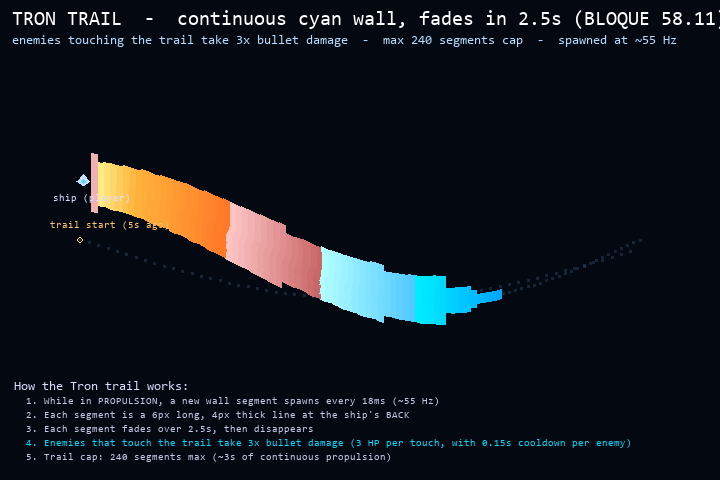
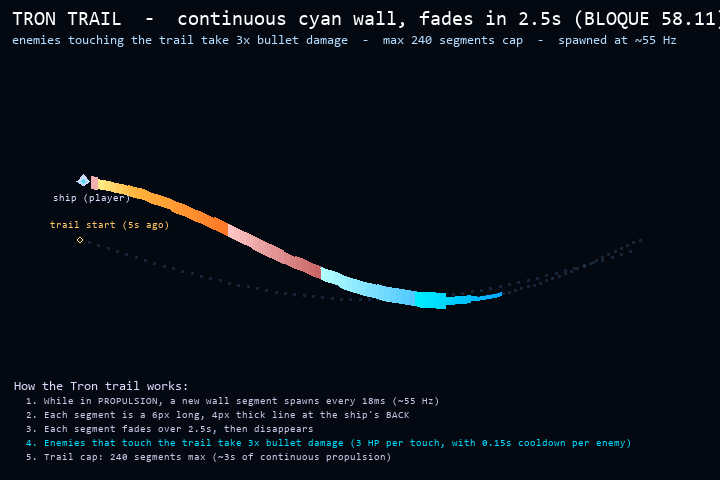
fix BLOQUE 58.29: Tron trail now thin line matching engine fire thickness

Changed region(s): [[0.1222, 0.3125, 0.7028, 0.6875]]

diff --git a/src/systems/tron_trail.py b/src/systems/tron_trail.py
@@ -1,17 +1,24 @@
-"""BLOQUE 58.11 + 58.22 + 58.24 + 58.25 + 58.27 + 58.28: Tron-style light trail for the player PROPULSION.
+"""BLOQUE 58.11 + 58.22 + 58.24 + 58.25 + 58.27 + 58.28 + 58.29: Tron-style light trail for the player PROPULSION.
 
 When the player enters PROPULSION state, the ship leaves a continuous
 glowing wall behind it (think Tron lightcycle / drift_loud reference).
 
-BLOQUE 58.28: trail thickness matches the engine fire plume.
-  The user pointed out the Tron trail looked like a thin line while
-  the engine fire plume (red-to-yellow animation) is a THICK puff.
-  Fix: bumped all layer widths (core 2→4, body 5→8, halo 10→16,
-  glow 18→24) so the visible beam matches the engine fire's
-  thickness (~14-18px). The spectral head now also starts with
-  yellow/orange (matching the fire color) and cools to cyan/blue
-  as the line ages, so the trail "leaves the engine fire behind"
-  and gradually cools into the Tron wall.
+BLOQUE 58.29: thin trail — match the engine fire plume thickness.
+  BLOQUE 58.28 went too far in the opposite direction: it made the
+  trail a THICK puff (core=4, body=8, halo=16, glow=24) thinking the
+  user wanted a thick beam. The user actually wanted a THIN line
+  matching the engine fire plume (which is a narrow column, not a
+  wide puff). Reverted to thin:
+    - CORE:  2 px
+    - BODY:  3 px
+    - HALO:  5 px
+    - GLOW:  8 px
+  Plus a tight multi-streak (offsets +/- 1 and +/- 2 px) so the
+  spectral feel remains but the line stays narrow.
+
+BLOQUE 58.28 history: tried to match the engine fire by making
+  the trail thicker. User said the opposite — the fire is THIN
+  and the trail should match that thinness, not a thick puff.
 
 BLOQUE 58.27: spectral multi-streak transparent trail.
   The user wanted the trail to feel like the reference images
@@ -401,24 +408,21 @@ class TronTrail:
             return (r, g, b)
 
         # -----------------------------------------------------------------
-        # Multi-streak: 5 parallel lines with perpendicular offsets
+        # Multi-streak: 5 thin parallel lines with small perpendicular offsets
         # -----------------------------------------------------------------
-        # We compute the perpendicular offset for each line by
-        # sampling consecutive segment angles. The center streak
-        # is at offset 0 (the actual polyline), the side streaks
-        # are at +/- 3 and +/- 6 px perpendicular to the local
-        # direction. Each side streak has lower alpha and slightly
-        # wider width to create a softer "spectrum" / "ghost
-        # trail" effect — like multiple parallel light streaks
-        # in the reference image.
+        # BLOQUE 58.29: tight offsets to keep the line NARROW like the
+        # engine fire plume (which is a thin column, not a wide puff).
+        # The streaks are at +/- 1 and +/- 2 px from the centerline.
+        # Each side streak has lower alpha to create a soft "spectrum"
+        # feel while keeping the total line width small.
         #
         # Per-streak config: (perp_offset, alpha_mult, width_mult)
         streak_configs = [
-            (-6.0, 0.25, 1.4),  # far-left ghost
-            (-3.0, 0.5,  1.2),  # left ghost
+            (-2.0, 0.25, 1.0),  # far-left ghost (very faint)
+            (-1.0, 0.5,  1.0),  # left ghost
             ( 0.0, 1.0,  1.0),  # center bright streak
-            (+3.0, 0.5,  1.2),  # right ghost
-            (+6.0, 0.25, 1.4),  # far-right ghost
+            (+1.0, 0.5,  1.0),  # right ghost
+            (+2.0, 0.25, 1.0),  # far-right ghost (very faint)
         ]
 
         # -----------------------------------------------------------------
@@ -504,35 +508,31 @@ class TronTrail:
                             actual_width,
                         )
 
-        # Pass 1: GLOW (very wide, very transparent, expands a lot)
-        # BLOQUE 58.28: thicker than 58.27 to match the engine fire
-        # thickness. The fire plume from the propulsor is ~14-18px
-        # wide; the Tron trail's overall visible extent should
-        # match that.
-        _draw_pass(width=24, base_alpha=18, life_curve_power=1.5,
+        # Pass 1: GLOW (thin, very transparent, slight expand)
+        # BLOQUE 58.29: thin as the engine fire plume. Total visible
+        # width is ~8px (GLOW) + the perpendicular multi-streak.
+        _draw_pass(width=8, base_alpha=18, life_curve_power=1.5,
                    width_expand=1.4)
-        # Pass 2: HALO (wide, transparent, expands moderately)
-        _draw_pass(width=16, base_alpha=32, life_curve_power=1.6,
+        # Pass 2: HALO (thin, transparent)
+        _draw_pass(width=5, base_alpha=32, life_curve_power=1.6,
                    width_expand=0.8)
-        # Pass 3: BODY (medium, semi-transparent) — this is the
-        # "visible solid" part of the beam. The user wants this
-        # to be AS THICK AS the engine fire (~6-8px).
-        _draw_pass(width=8, base_alpha=85, life_curve_power=1.7,
+        # Pass 3: BODY (the visible solid of the beam)
+        # BLOQUE 58.29: 3 px (was 8 in 58.28) — matches the fire's
+        # narrow column thickness.
+        _draw_pass(width=3, base_alpha=85, life_curve_power=1.7,
                    width_expand=0.4)
         # Pass 4: CORE (the bright center of the beam)
-        # BLOQUE 58.28: bumped from 2 to 4 px to match the engine
-        # fire's "puffy center". Still semi-transparent so the
-        # trail doesn't look opaque.
-        _draw_pass(width=4, base_alpha=150, life_curve_power=2.0,
+        # BLOQUE 58.29: 2 px (was 4 in 58.28) — a tight bright line,
+        # like the engine fire's hottest center.
+        _draw_pass(width=2, base_alpha=150, life_curve_power=2.0,
                    width_expand=0.0)
 
         # -----------------------------------------------------------------
-        # Head bloom: extra bright burst at the very tip
+        # Head bloom: tight bright burst at the very tip
         # -----------------------------------------------------------------
-        # BLOQUE 58.28: thicker head bloom to match the engine fire
-        # plume. The bloom is a 2-circle stack (wide soft + tight
-        # bright), both rendered in the fire color (yellow/orange)
-        # to feel like the engine fire is "leading" the trail.
+        # BLOQUE 58.29: small tight head bloom (3 small circles) so
+        # the head doesn't look like a wide puff. It should feel
+        # like the engine fire's hottest point leading the line.
         head_x, head_y, head_life = pts[-1]
         if head_life > 0.4:
             bloom_alpha = int(min(255.0, 220.0 * (head_life - 0.4) / 0.6))
@@ -540,32 +540,32 @@ class TronTrail:
                 # Fire color (yellow-orange) for the head bloom
                 fire_color = _spectral_color(0.95)  # yellow-white
                 try:
-                    # Wide soft outer glow
+                    # Soft outer glow (4 px — tight)
                     pygame.draw.circle(
                         target,
                         (fire_color[0], fire_color[1], fire_color[2],
-                         int(bloom_alpha * 0.35)),
+                         int(bloom_alpha * 0.4)),
                         (head_x, head_y),
-                        12,
+                        4,
                     )
-                    # Medium orange ring
+                    # Bright orange ring (3 px)
                     pygame.draw.circle(
                         target,
                         (255, 180, 60, int(bloom_alpha * 0.7)),
                         (head_x, head_y),
-                        8,
+                        3,
                     )
-                    # Bright white-cyan core
+                    # White-cyan hot core (2 px)
                     pygame.draw.circle(
                         target,
                         (255, 255, 255, bloom_alpha),
                         (head_x, head_y),
-                        4,
+                        2,
                     )
                 except TypeError:
-                    pygame.draw.circle(target, fire_color, (head_x, head_y), 12)
-                    pygame.draw.circle(target, (255, 180, 60), (head_x, head_y), 8)
-                    pygame.draw.circle(target, (255, 255, 255), (head_x, head_y), 4)
+                    pygame.draw.circle(target, fire_color, (head_x, head_y), 4)
+                    pygame.draw.circle(target, (255, 180, 60), (head_x, head_y), 3)
+                    pygame.draw.circle(target, (255, 255, 255), (head_x, head_y), 2)
 
         # -----------------------------------------------------------------
         # Sparkle particles: tiny stars along the trail
